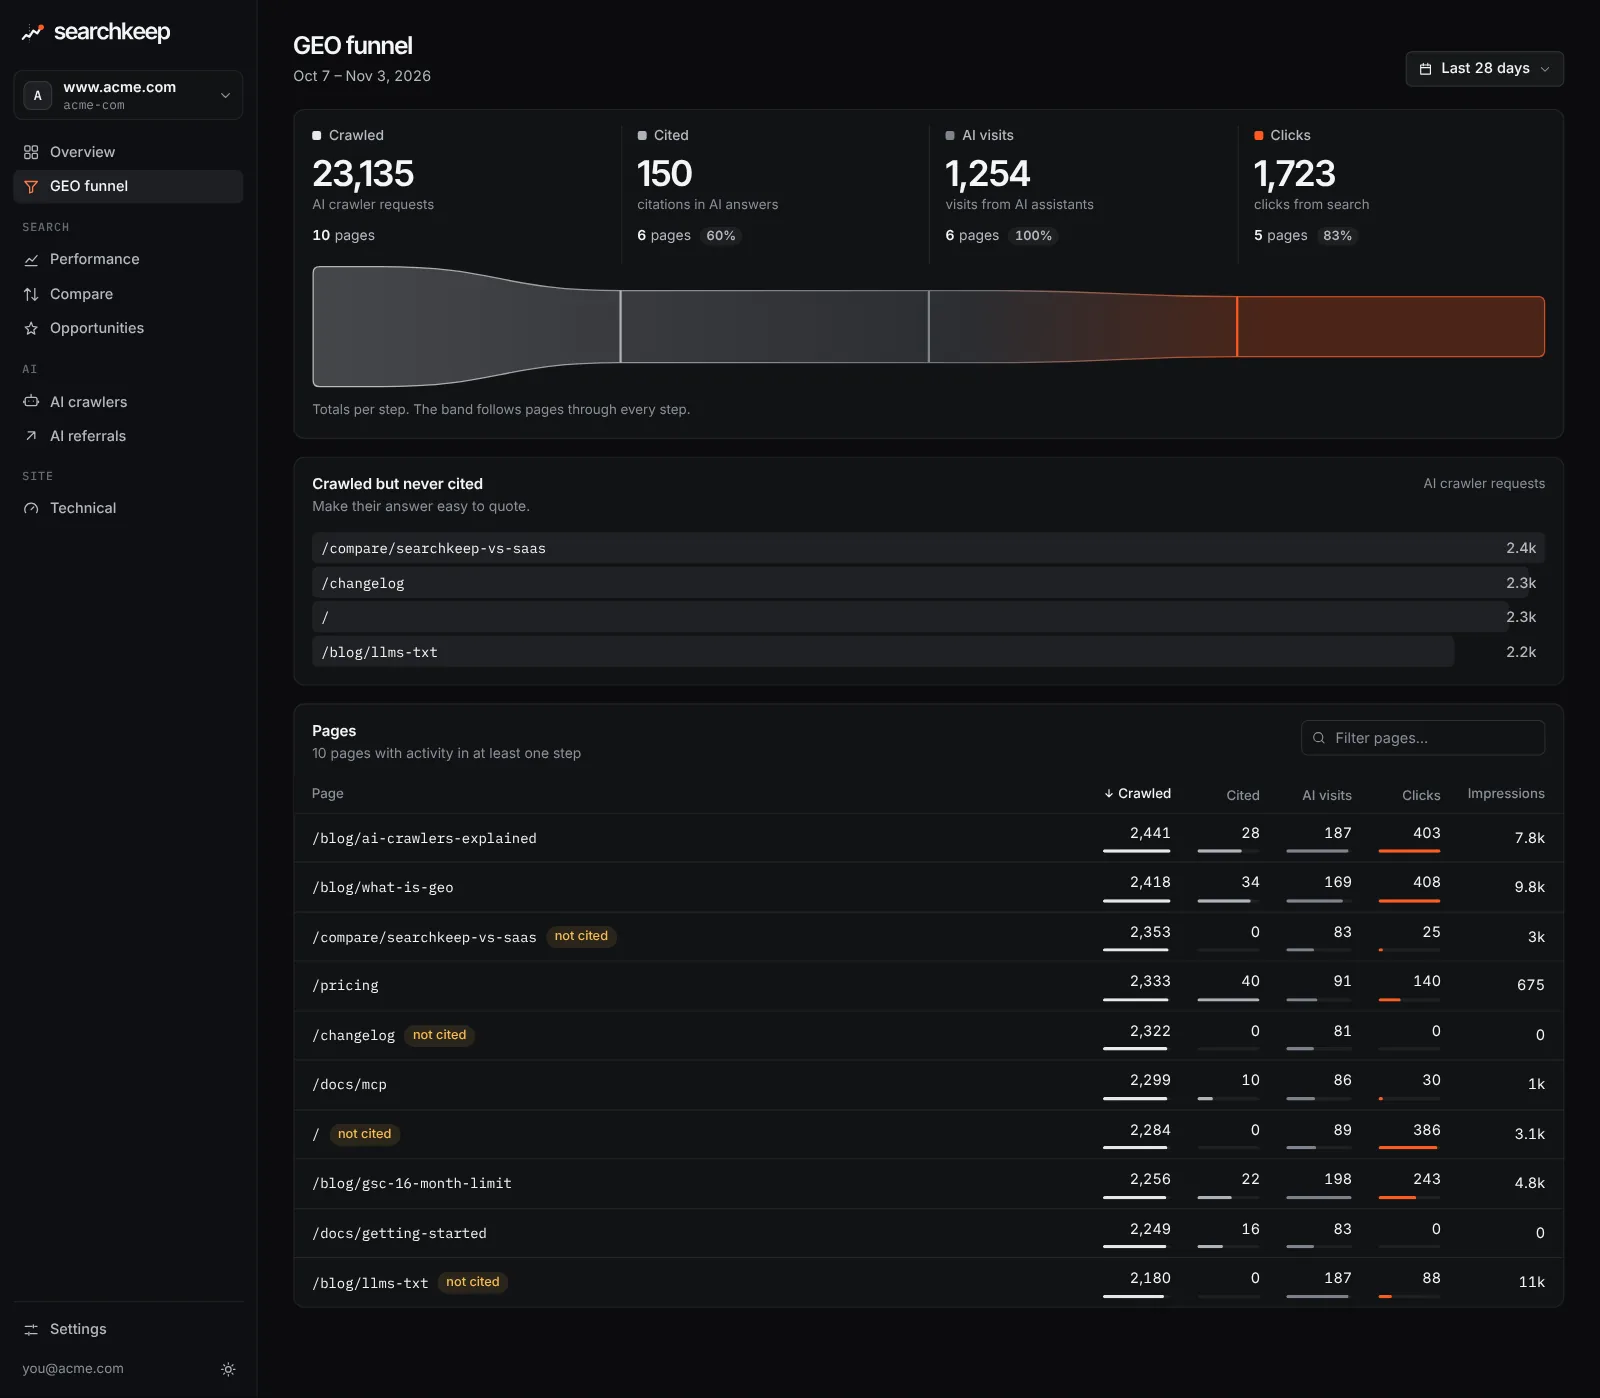
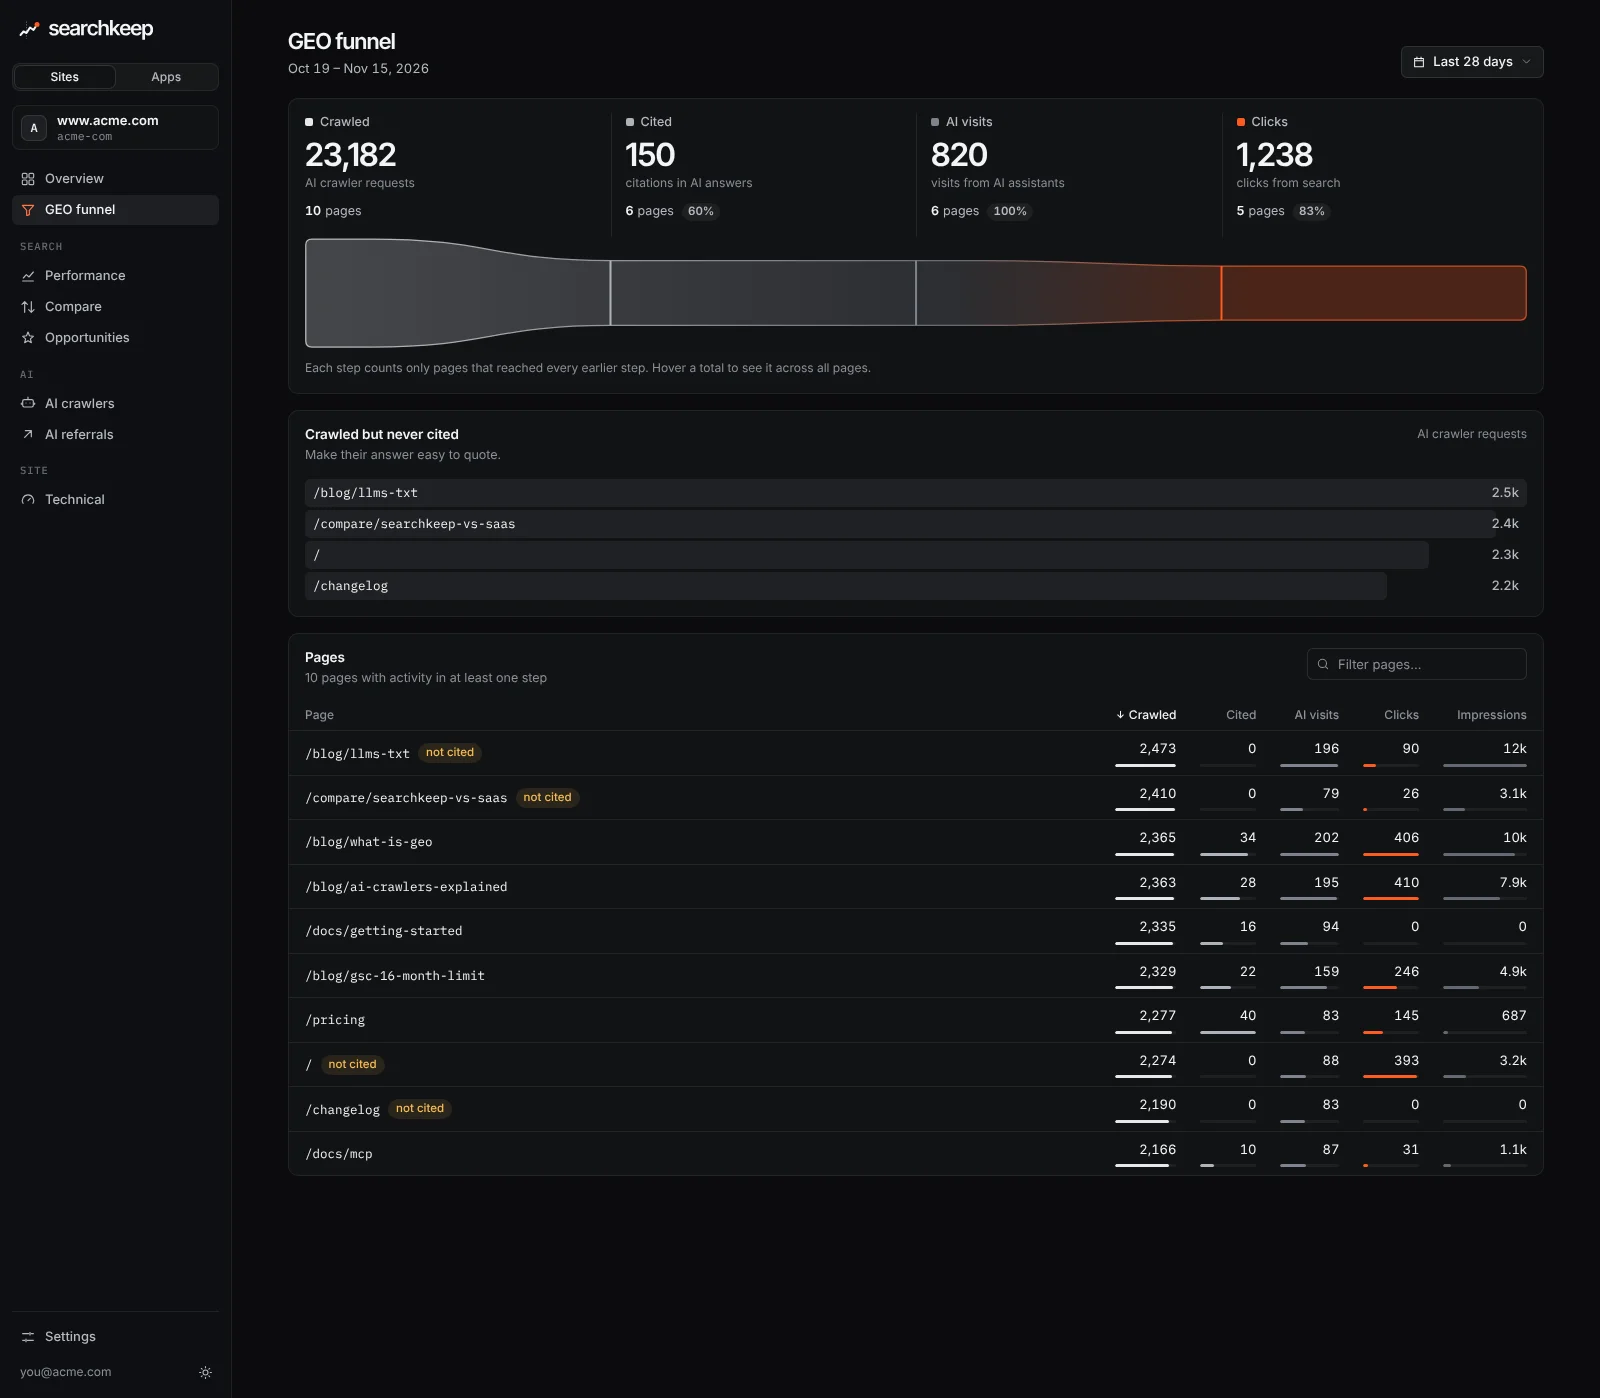
Docs and website: describe the narrowing GEO funnel; refresh dashboard screenshots
The README and the website's data sources page now list all four steps
(Crawled, Cited, AI visits, Clicks) and explain that each step counts
only pages that reached every earlier step. The FAQ and llms.txt say the
same. Screenshots are retaken from the demo data.

Claude-Session: https://claude.ai/code/session_017vVwusXrYfUFdHb11XGyEs

diff --git a/apps/site/src/routes/docs/data-sources/+page.svelte b/apps/site/src/routes/docs/data-sources/+page.svelte
@@ -336,10 +336,19 @@
     <tbody>
       <tr><td>Crawled</td><td>Requests from AI crawlers</td><td>Cloudflare zone analytics</td></tr>
       <tr><td>Cited</td><td>Citations in AI answers</td><td>Imported Bing AI Performance CSV</td></tr>
-      <tr><td>Clicked</td><td>Visits referred by AI assistants, plus GSC and Bing clicks for context</td><td>Web Analytics, GSC, Bing</td></tr>
+      <tr><td>AI visits</td><td>Page loads referred by AI assistants</td><td>Cloudflare Web Analytics</td></tr>
+      <tr><td>Clicks</td><td>Clicks from search results</td><td>Google Search Console, Bing Webmaster Tools</td></tr>
     </tbody>
   </table>
 </div>
+<p>
+  The funnel narrows: each step counts only the pages that reached every earlier step, so <em>Clicks</em> are the search
+  clicks of pages that AI crawled, cited and sent visitors to. A step with no data yet (such as <em>Cited</em> before an
+  import) is skipped rather than emptying the funnel. The result’s <code>funnel</code> holds these narrowed totals and page
+  counts; <code>totals</code> sums each step over all pages, which the dashboard shows when you hover a step. Each step
+  counts its own unit (requests, citations, visits, clicks), so a later total can still be larger than an earlier one;
+  the page counts always shrink.
+</p>
 <p>
   The interesting rows are the gaps: pages that are <strong>crawled but not cited</strong> (AI reads them and moves
   on) and pages that are <strong>cited but not clicked</strong> (AI answers the question without sending anyone). Sort

diff --git a/apps/site/src/lib/llms.ts b/apps/site/src/lib/llms.ts
@@ -75,7 +75,7 @@ Searchkeep is open-source SEO and GEO (generative engine optimization) analytics
 
 Core features:
 
-- The GEO funnel, per page: Crawled (Cloudflare AI crawler requests) → Cited (Bing AI Performance citations, imported from its CSV export because it has no API) → Clicked (Web Analytics referrals from AI assistants, alongside GSC and Bing clicks).
+- The GEO funnel, per page: Crawled (Cloudflare AI crawler requests) → Cited (Bing AI Performance citations, imported from its CSV export because it has no API) → AI visits (Web Analytics referrals from AI assistants) → Clicks (GSC and Bing). Each step counts only the pages that reached every earlier step.
 - Long-term history: after deploying, Searchkeep backfills the 16 months Search Console keeps, up to 30 days per request (hours for a small site, days for sites with a lot of data on the free D1 write quota); data is never deleted.
 - Read-only by default; the only write (\`submit_sitemap\`) requires \`ENABLE_WRITES=true\` and Full GSC permission.
 - Secure by default: Cloudflare Access in front, Managed OAuth for MCP clients, Access JWT re-verified on every request, locked until ready.

diff --git a/apps/site/src/lib/content.ts b/apps/site/src/lib/content.ts
@@ -933,7 +933,7 @@ export const FAQS: Faq[] = [
   },
   {
     q: 'What is the GEO funnel?',
-    a: 'It follows each page through three steps of AI visibility: Crawled (AI crawlers fetched it, from Cloudflare), Cited (an AI answer referenced it, from the Bing AI Performance report, which has no API yet, so you import its CSV export from the dashboard) and Clicked (people arrived from an AI assistant, from Web Analytics referrers, alongside classic GSC and Bing clicks). Gaps between steps tell you what to fix.',
+    a: 'It follows each page through three steps of AI visibility: Crawled (AI crawlers fetched it, from Cloudflare), Cited (an AI answer referenced it, from the Bing AI Performance report, which has no API yet, so you import its CSV export from the dashboard) and Clicked (people arrived from an AI assistant, from Web Analytics referrers, then search clicks from GSC and Bing). Each step counts only the pages that reached every earlier step, so the funnel narrows, and gaps between steps tell you what to fix.',
   },
   {
     q: 'How far back does the history go?',

diff --git a/README.md b/README.md
@@ -27,14 +27,18 @@ Website: <https://searchkeep.dev>
 Search is no longer just ten blue links. Searchkeep follows each page through the whole path from
 AI crawler to visitor:
 
-| Stage       | Question                             | Data source                                                          |
-| ----------- | ------------------------------------ | -------------------------------------------------------------------- |
-| **Crawled** | Do AI crawlers fetch this page?      | Cloudflare AI crawler requests (by crawler, path and status)         |
-| **Cited**   | Do AI answers cite this page?        | Bing AI Performance (imported from its CSV export; it has no API)    |
-| **Clicked** | Do people arrive from AI and search? | Web Analytics referrers from AI assistants, plus GSC and Bing clicks |
+| Stage         | Question                        | Data source                                                       |
+| ------------- | ------------------------------- | ----------------------------------------------------------------- |
+| **Crawled**   | Do AI crawlers fetch this page? | Cloudflare AI crawler requests (by crawler, path and status)      |
+| **Cited**     | Do AI answers cite this page?   | Bing AI Performance (imported from its CSV export; it has no API) |
+| **AI visits** | Do people arrive from AI?       | Web Analytics page loads referred by AI assistants                |
+| **Clicks**    | Do people arrive from search?   | Search Console and Bing clicks                                    |
 
-The `geo_funnel` tool and the dashboard show all three stages per page, next to classic search
-performance.
+The `geo_funnel` tool and the dashboard show every stage per page, next to classic search
+performance. The funnel narrows: each stage counts only the pages that reached every earlier stage,
+so Clicks are the search clicks of pages that AI crawled, cited and sent visitors to. A stage with
+no data yet (such as Cited before an import) is skipped. Each stage counts its own unit, so a later
+total can still be larger than an earlier one; the page counts always shrink.
 
 ![The Searchkeep dashboard: overview](docs/assets/dashboard-overview.png)
 
@@ -209,7 +213,7 @@ AGENTS.md              Instructions for AI agents working on this repository
 | `find_cannibalization` | Queries where several of your pages compete for the same ranking.                                       |
 | `find_ctr_anomalies`   | Queries whose CTR is clearly below what their position predicts.                                        |
 | `find_content_decay`   | Pages whose clicks keep declining.                                                                      |
-| `geo_funnel`           | Per page: AI crawler requests, imported Bing AI citations, AI referral visits and clicks.               |
+| `geo_funnel`           | Per page: AI crawler requests, imported Bing AI citations, AI referral visits and clicks; as a funnel.  |
 | `ai_crawlers`          | AI crawler requests by crawler, operator, purpose, path, status or date.                                |
 | `search_crawlers`      | Search engine crawler requests (Googlebot, Bingbot, ...): Search Console's Crawl stats, kept.           |
 | `index_coverage`       | Indexed and not-indexed sitemap URLs by coverage state, rich result issues and recent changes.          |
